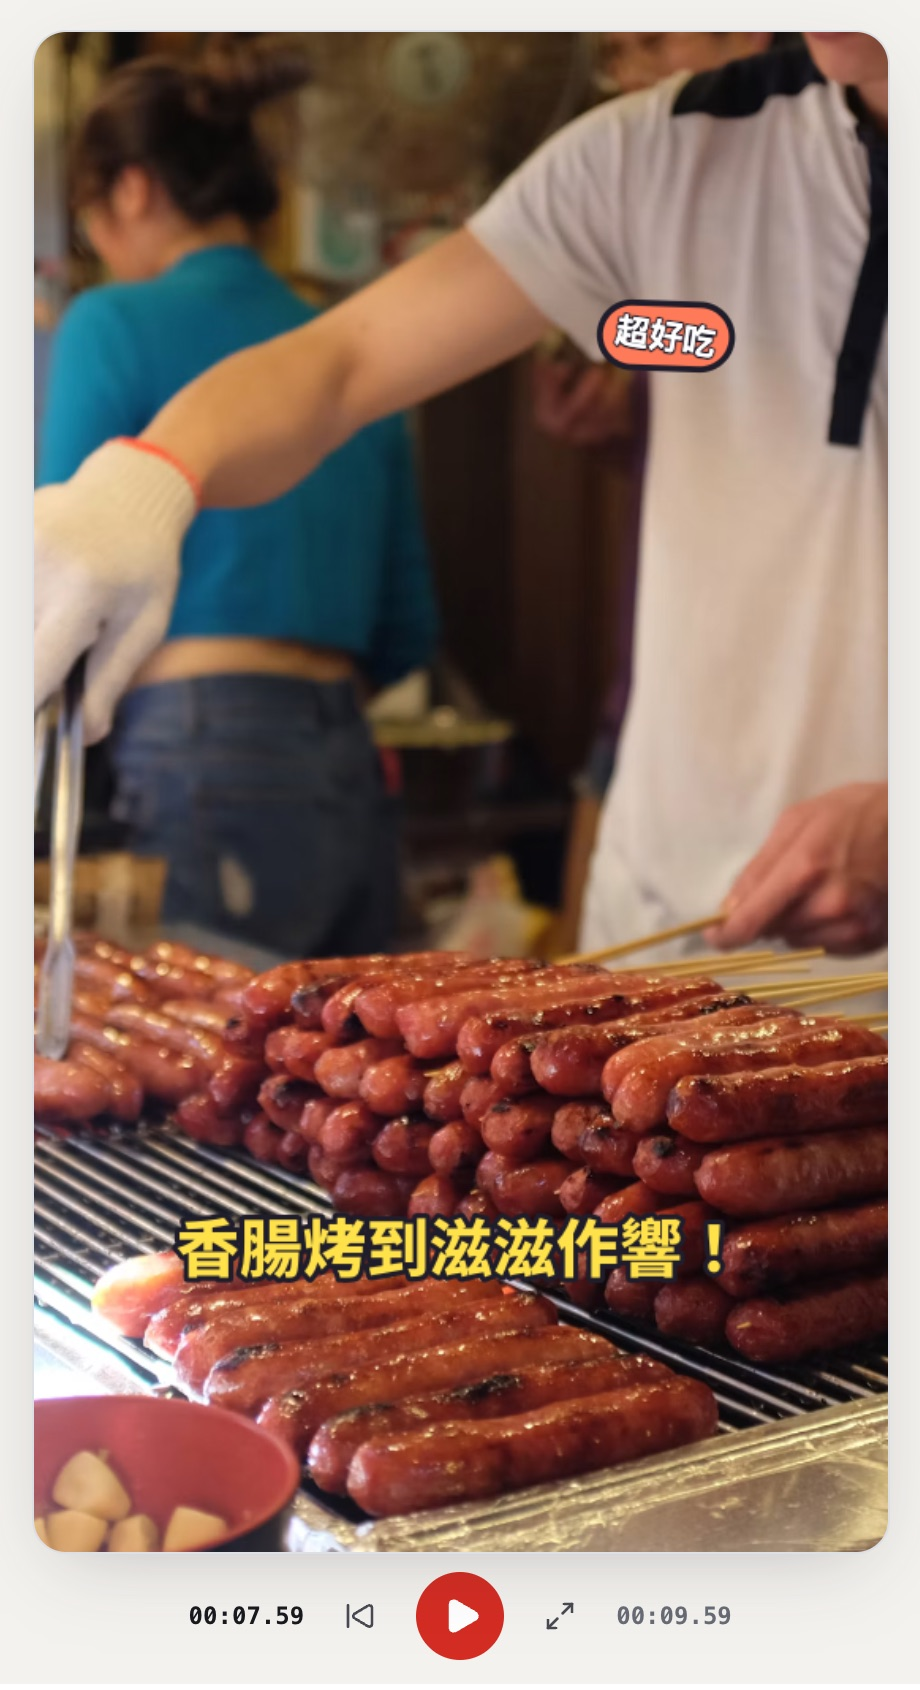
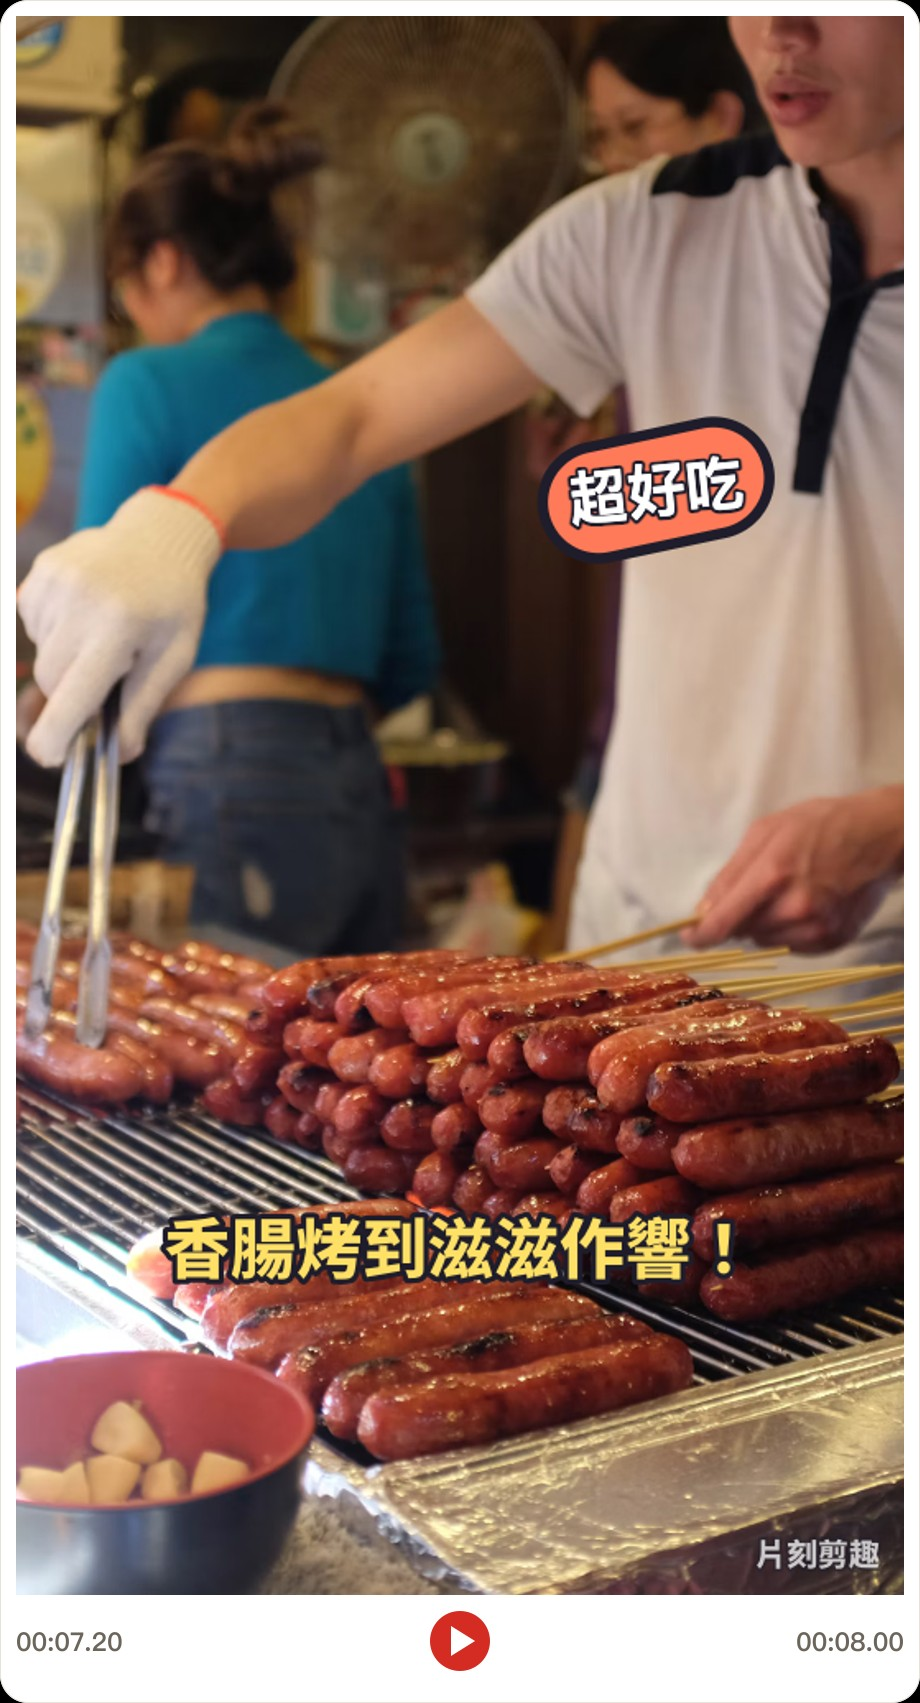
更新首頁編輯器示意圖，反映新版版面
舊截圖還是改版前的直式工具列畫面；重新用現在的上方橫向工具列
＋左側子導覽介面產生桌機與手機版大圖。

diff --git a/src/pages/Landing.tsx b/src/pages/Landing.tsx
@@ -75,7 +75,7 @@ function Hero() {
               <span className="ml-3 rounded-full bg-white px-3 py-0.5 text-[11px] text-site-mute">片刻剪趣編輯器</span>
             </div>
             <picture>
-              <source media="(max-width: 639px)" srcSet="/editor-demo-mobile.jpg" width={920} height={1690} />
+              <source media="(max-width: 639px)" srcSet="/editor-demo-mobile.jpg" width={920} height={1703} />
               <img
                 src="/editor-demo.jpg"
                 width={1440}
